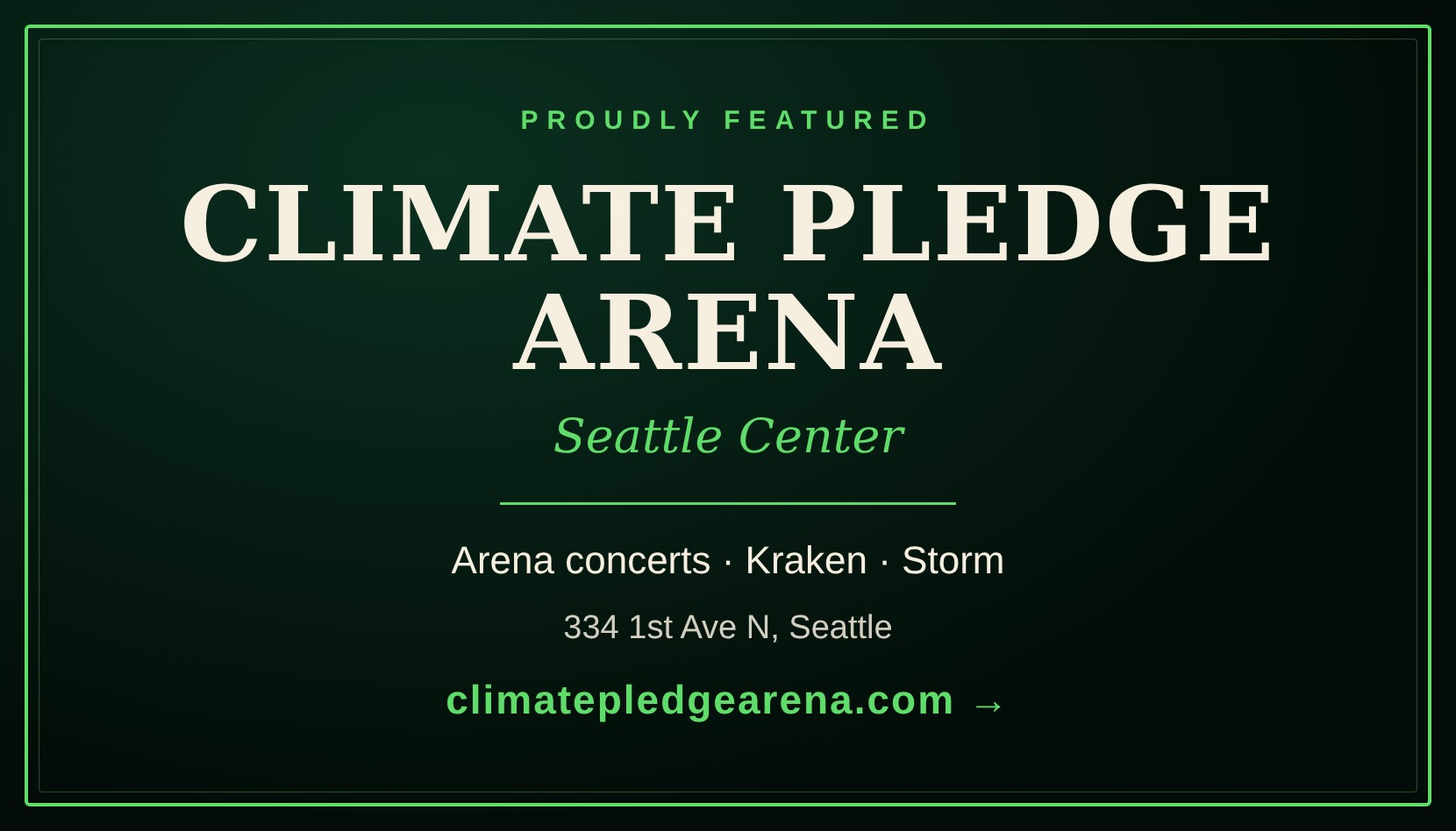
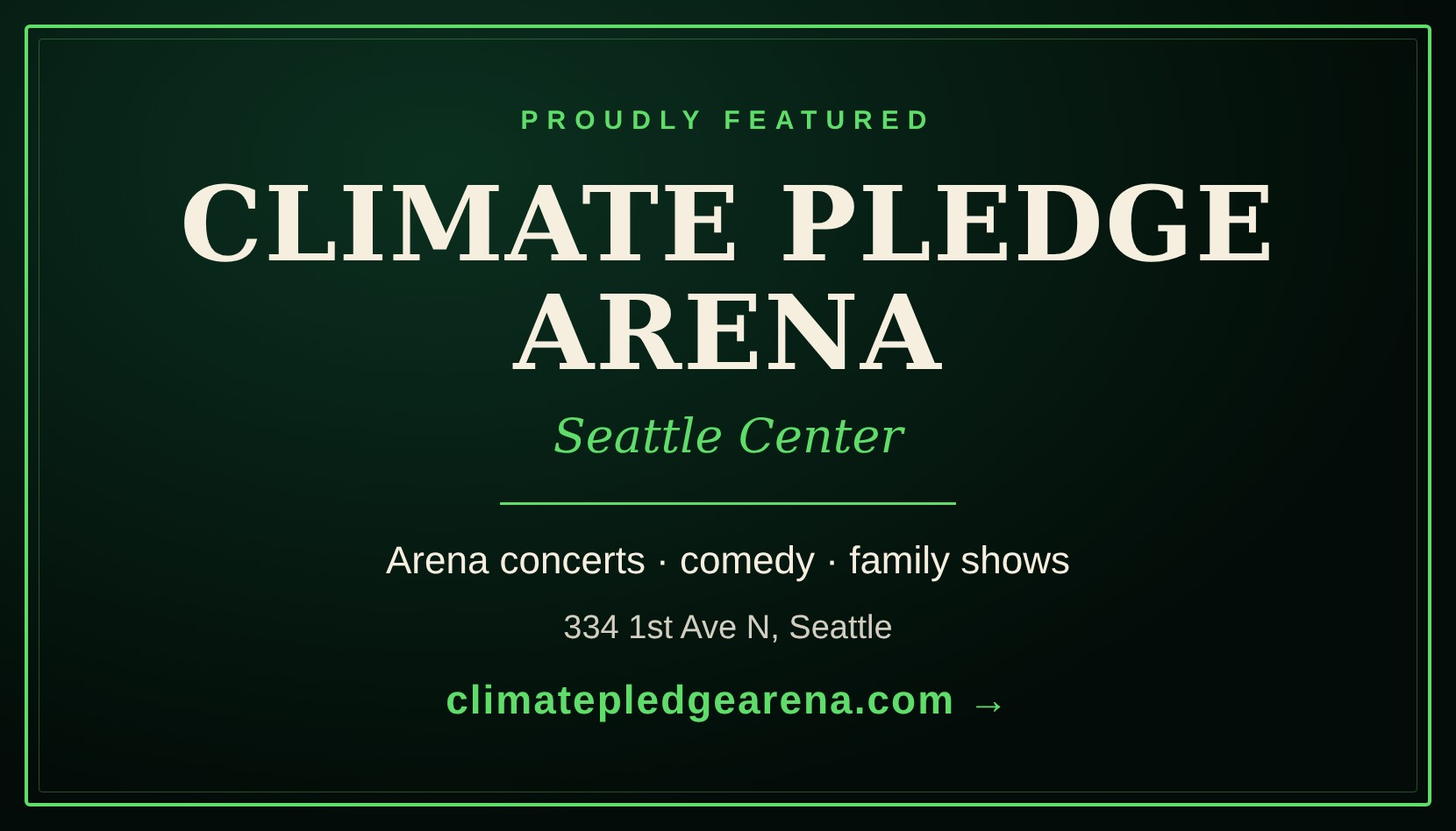
No sports: remove sports stories, headlines, calendar games and sports feed
Claude-Session: https://claude.ai/code/session_01Rvhfw57S8LJQmjjH2L4ZDg

Changed region(s): [[0.2765, 0.6424, 0.7373, 0.7036]]

diff --git a/index.html b/index.html
@@ -1384,7 +1384,7 @@ html body #jtSea .jts-m{display:flex;gap:10px;align-items:baseline;padding-top:8
 </div>
 
 <script>
-const STORIES=[{"slug": "halloween-night-in-seattle", "theme": "halloween", "until": "2026-11-01", "topic": "people", "date": "2026-10-30", "minutes": 3, "title": "Halloween Night in Seattle: What to Expect", "dek": "A Saturday Halloween with Gorillaz at Climate Pledge, the Trolloween party in Fremont, costume shows all over town, and the clocks fall back overnight.", "body": ["Halloween falls on a Saturday this year, so families get a full night out and the clubs get a full weekend. Here's what to know.", "## Trick-or-treat", "Seattle doesn't set one citywide trick-or-treat time; most neighborhoods go out from late afternoon into the evening. The sun sets before 6 p.m., so most of the night happens in the dark. Glow sticks, a flashlight or reflective tape make kids easier to see, and in Seattle, a rain shell under the costume never hurts. Check the forecast before you go.", "## Don't forget the clocks", "Daylight saving time ends at 2 a.m. Sunday, Nov. 1. Clocks fall back an hour, so the late shows get a bonus hour.", "## The big ones", "Gorillaz close out their North American tour at Climate Pledge Arena on Halloween night, and the Fremont Troll gets its own Trolloween party. Both have full stories in this issue.", "## Friday, Oct. 30", "#T {\"title\": \"The night before\", \"head\": [\"Time\", \"What\", \"Where\"], \"rows\": [[\"6 p.m.\", \"This Is Halloween\", \"The Triple Door, Downtown\"], [\"9 p.m.\", \"Halloweekend\", \"Neumos, Capitol Hill\"], [\"Night\", \"Frankie and the Witch Fingers\", \"Baba Yaga, Pioneer Square\"], [\"Night\", \"BOO! Seattle with Gramatik and KAYZO\", \"WAMU Theater, SoDo\"]]}", "## Saturday, Oct. 31", "#T {\"title\": \"Halloween night\", \"head\": [\"Time\", \"What\", \"Where\"], \"rows\": [[\"5 p.m.\", \"This Is Halloween\", \"The Triple Door, Downtown\"], [\"8 p.m.\", \"Steely Dead\", \"Nectar Lounge, Fremont\"], [\"9 p.m.\", \"GHOULFEST: A Halloween Club Night\", \"Chop Suey, Capitol Hill\"], [\"9 p.m.\", \"Halloweekend\", \"Neumos, Capitol Hill\"], [\"10 p.m.\", \"Daft Disko Halloween\", \"The Crocodile, Belltown\"]]}", "Every listing is on the Seattle Calendar, with links to tickets."], "sources": [{"outlet": "The Guitar Doug Report", "title": "Seattle Calendar", "date": "", "url": "https://seattlesinner.com/"}]}, {"slug": "gorillaz-close-mountain-tour-halloween-climate-pledge", "topic": "music", "date": "2026-10-30", "until": "2026-10-31", "minutes": 2, "title": "Gorillaz Close Out The Mountain Tour With a Halloween Night Blowout at Climate Pledge", "dek": "Damon Albarn's cartoon band ends its 22-city North American run in Seattle on Saturday, Oct. 31, with Little Simz and Deltron 3030 on the bill.", "body": ["The biggest crowd in town this Halloween weekend will be at Climate Pledge Arena, where Gorillaz finish The Mountain Tour on Saturday, Oct. 31. Showtime is 7:30 p.m.", "Seattle gets the last word: the tour opened Sept. 17 in Orlando and wraps here, the final stop of 22 arena dates across the U.S. and Canada. It is the band's first extensive North American tour since 2022, and Little Simz and Deltron 3030 are listed on the night's bill.", "## The music", "The tour supports The Mountain, released Feb. 27 on the band's own KONG label. Its singles bring in guests including Sparks, IDLES, Omar Souleyman, Yasiin Bey and Anoushka Shankar. Co-creators Damon Albarn and Jamie Hewlett built the project, and Albarn fronts the Gorillaz live band with guest performers.", "## Tickets and getting there", "The show sold through Ticketmaster, and resale seats were starting around $189.75 earlier this week. VIP packages with access to The Mountain Experience lounge were offered through VIP Nation. The arena sits at 334 1st Avenue North on the Seattle Center campus. Expect heavy Halloween traffic around Lower Queen Anne, so plan on transit or an early arrival."], "sources": [{"outlet": "Climate Pledge Arena", "title": "Gorillaz announce North American tour, fall 2026", "date": "", "url": "https://climatepledgearena.com/gorillaz-announce-north-american-tour-fall-2026/"}, {"outlet": "Seattle Refined", "title": "Seattle Halloween weekend events", "date": "", "url": "https://seattlerefined.com/lifestyle/seattle-halloween-events-weekend-music-boo-edm-gorillaz-tour-day-dead-dia-de-muertos-catrinas-festiavl-trolloween-fremont-troll-parties-ruins-2026"}, {"outlet": "Songkick", "title": "Climate Pledge Arena concerts", "date": "", "url": "https://songkick.com/venues/33714-climate-pledge-arena"}, {"outlet": "JamBase", "title": "The Smashing Pumpkins at Climate Pledge Arena (venue address)", "date": "", "url": "https://www.jambase.com/show/the-smashing-pumpkins-climate-pledge-arena-20261106"}]}, {"slug": "seahawks-host-bears-monday-night-football", "topic": "sports", "date": "2026-10-30", "until": "2026-11-02", "minutes": 1, "title": "Monday Night Lights: Seahawks Host the Bears at Lumen Field", "dek": "Seattle welcomes Chicago on ESPN's Monday Night Football Nov. 2, then turns around to face Arizona at home the following Sunday.", "body": ["The 12s get a prime-time stage Monday, Nov. 2, when the Seahawks host the Chicago Bears at Lumen Field. Kickoff is 5:15 p.m. Pacific on ESPN.", "It is the second of three straight national-TV games for Seattle, coming after a Thursday night trip to Denver and a Sunday night meeting with Kansas City.", "## A quick turnaround", "Six days later the Seahawks are home again, against the Arizona Cardinals on Sunday, Nov. 8, at 1:25 p.m. on FOX. That game closes a run of five home games in six weeks before the team heads to Las Vegas on Nov. 15 and takes its bye week.", "## Tickets", "Single-game tickets are sold through Seahawks.com/Tickets, with a limit of eight per game. A 5:15 p.m. weeknight kickoff means rush-hour traffic downtown and in SoDo, so light rail or an early start is the smart play."], "sources": [{"outlet": "Seattle Seahawks", "title": "Seahawks 2026 schedule release features six primetime games", "date": "", "url": "https://www.seahawks.com/news/seattle-seahawks-2026-schedule-release-features-six-primetime-games-including-christmas-at-lumen-field"}, {"outlet": "Seattle Seahawks", "title": "A game-by-game look at the Seahawks 2026 schedule", "date": "", "url": "https://www.seahawks.com/news/a-game-by-game-look-at-the-seahawks-2026-schedule"}]}, {"slug": "trolloween-fremont-troll-birthday-halloween", "topic": "culture", "date": "2026-10-30", "until": "2026-10-31", "minutes": 1, "title": "Fremont Throws Its Troll a Birthday Party on Halloween Night", "dek": "Trolloween brings live music, a theatrical pageant and a costumed neighborhood procession to the Fremont Troll on Saturday, Oct. 31.", "body": ["Fremont's most famous resident, the troll under the Aurora Bridge, marks his birthday on Halloween with Trolloween, starting at 7 p.m. Saturday, Oct. 31.", "The gathering takes place at the Fremont Troll at North 36th Street and Troll Avenue North. Expect live music and a theatrical pageant, followed by the Haunt of Fremont, a costumed procession that winds around the neighborhood.", "## What to know", "There is no admission fee and no ticket needed. Costumes are encouraged, so this is a fine stop for families who want one more round of Halloween fun after trick-or-treating. More details are posted by the Fremont Arts Council.", "Street parking in Fremont fills fast on Halloween night. Walking, biking or the bus will save a headache."], "sources": [{"outlet": "Seattle Refined", "title": "Seattle Halloween weekend events", "date": "", "url": "https://seattlerefined.com/lifestyle/seattle-halloween-events-weekend-music-boo-edm-gorillaz-tour-day-dead-dia-de-muertos-catrinas-festiavl-trolloween-fremont-troll-parties-ruins-2026"}]}, {"slug": "teddy-swims-ugly-tour-climate-pledge", "topic": "music", "date": "2026-10-30", "until": "2026-11-05", "minutes": 1, "title": "Teddy Swims Brings The Ugly Tour to Climate Pledge Arena", "dek": "The Grammy-nominated soul singer headlines Seattle Center on Thursday, Nov. 5, with Allen Stone and MarcLo opening.", "body": ["Big-voiced soul and pop singer Teddy Swims rolls into Climate Pledge Arena on Thursday, Nov. 5, with The Ugly Tour. The evening starts at 7 p.m.", "Swims, a Grammy nominee with a Diamond-certified record to his name, is joined by special guests Allen Stone and MarcLo, making for a full night of vocal-driven soul.", "## Tickets and getting there", "Tickets are sold through Ticketmaster; the Seattle Center listing does not post prices, so check the seat map for current figures. The arena is at 334 1st Avenue North on the Seattle Center grounds; the Monorail from Westlake Center is an easy way in."], "sources": [{"outlet": "Seattle Center", "title": "Teddy Swims: The Ugly Tour", "date": "", "url": "https://www.seattlecenter.com/events/event-calendar/teddy-swims-the-ugly-tour"}, {"outlet": "Songkick", "title": "Climate Pledge Arena concerts", "date": "", "url": "https://songkick.com/venues/33714-climate-pledge-arena"}, {"outlet": "JamBase", "title": "The Smashing Pumpkins at Climate Pledge Arena (venue address)", "date": "", "url": "https://www.jambase.com/show/the-smashing-pumpkins-climate-pledge-arena-20261106"}]}, {"slug": "smashing-pumpkins-climate-pledge-november-6", "topic": "music", "date": "2026-10-30", "until": "2026-11-06", "minutes": 1, "title": "The Smashing Pumpkins Take the Arena Stage at Climate Pledge", "dek": "Billy Corgan's alt-rock heavyweights play Seattle on Friday, Nov. 6, with face-value seats starting around $50.", "body": ["Alt-rock heavyweights hit Seattle Center on Friday, Nov. 6, when The Smashing Pumpkins play Climate Pledge Arena at 8 p.m.", "For a city that knows its loud guitars, this one should feel like home turf.", "## Tickets", "Ticketmaster's primary listing ranged from about $50.05 to $1,236.05 at last check, with resale also available. Prices move with demand, so compare before you buy.", "## Getting there", "Climate Pledge Arena is at 334 1st Avenue North. Friday night means a busy Lower Queen Anne; transit, the Monorail from Westlake or an early dinner nearby will make for an easier evening."], "sources": [{"outlet": "JamBase", "title": "The Smashing Pumpkins at Climate Pledge Arena", "date": "", "url": "https://www.jambase.com/show/the-smashing-pumpkins-climate-pledge-arena-20261106"}, {"outlet": "Songkick", "title": "Climate Pledge Arena concerts", "date": "", "url": "https://songkick.com/venues/33714-climate-pledge-arena"}]}, {"slug": "seattle-symphony-tchaikovsky-zarathustra-josefowicz", "topic": "music", "date": "2026-10-30", "until": "2026-11-15", "minutes": 2, "title": "Seattle Symphony's November: Tchaikovsky's Big Concerto, Zarathustra and Leila Josefowicz", "dek": "Benaroya Hall hosts two strong programs this month, from star violinist Leila Josefowicz to Tchaikovsky's First Piano Concerto paired with Strauss.", "body": ["The Seattle Symphony has a pair of programs at Benaroya Hall, 200 University Street, that should draw both longtime subscribers and newcomers.", "## Leila Josefowicz returns, Nov. 5 and 7", "Violinist Leila Josefowicz rejoins the orchestra with conductor Jonathan Stockhammer for music by Chin, Szymanowski and Stravinsky, including Szymanowski's Violin Concerto No. 2. The Thursday, Nov. 5 performance starts at 7:30 p.m., with a second performance Saturday, Nov. 7.", "## Tchaikovsky and Zarathustra, Nov. 12, 14 and 15", "Conductor Xian Zhang leads Tchaikovsky's Piano Concerto No. 1 with pianist Tony Siqi Yun, alongside Richard Strauss's Zarathustra. Performances are Thursday, Nov. 12, Saturday, Nov. 14, and a Sunday matinee Nov. 15.", "## Tickets", "Both programs play the S. Mark Taper Foundation Auditorium. Tickets are sold through the Seattle Symphony box office; check current prices and exact curtain times there before you go. Benaroya Hall sits in the heart of downtown, close to plenty of bus routes."], "sources": [{"outlet": "Bachtrack", "title": "Seattle Symphony: Tchaikovsky's First Piano Concerto and Zarathustra", "date": "", "url": "https://bachtrack.com/22/291/view/436348"}, {"outlet": "Bachtrack", "title": "Seattle Symphony: Leila Josefowicz Returns", "date": "", "url": "https://bachtrack.com/22/291/view/436347"}, {"outlet": "Concerts50", "title": "Seattle Symphony, Nov. 5, 2026", "date": "", "url": "https://concerts50.com/show/seattle-symphony-in-seattle-tickets-nov-05-2026"}]}, {"slug": "postmodern-jukebox-paramount-november-24", "topic": "music", "date": "2026-10-30", "until": "2026-11-24", "minutes": 1, "title": "Postmodern Jukebox Swings Into the Paramount Thanksgiving Week", "dek": "Scott Bradlee's vintage-style cover band plays the Paramount Theatre on Tuesday, Nov. 24, with face-value tickets from about $49.", "body": ["Scott Bradlee's Postmodern Jukebox, the troupe that dresses up modern pop hits in vintage jazz and swing clothes, plays the Paramount Theatre on Tuesday, Nov. 24, at 8 p.m.", "It is a good pick for a night out with visiting family in town for the Thanksgiving holiday, and the Paramount's ornate room suits the old-time style.", "## Tickets and getting there", "Ticketmaster lists face-value seats from about $49.10 to $223.90, with resale options also available. The Paramount is at 911 Pine Street, downtown at the edge of Capitol Hill."], "sources": [{"outlet": "JamBase", "title": "Scott Bradlee's Postmodern Jukebox at Paramount Theatre", "date": "", "url": "https://www.jambase.com/show/scott-bradlees-postmodern-jukebox-paramount-theatre-20261124"}]}, {"slug": "the-outsiders-musical-paramount-seattle", "topic": "stage", "date": "2026-10-30", "until": "2026-12-06", "minutes": 1, "title": "Tony-Winning 'The Outsiders' Rumbles Into the Paramount", "dek": "The Broadway musical based on S.E. Hinton's novel plays Seattle Nov. 27 through Dec. 6 as part of the Broadway at The Paramount season.", "body": ["Stay gold, Seattle. The Outsiders, the Tony Award-winning Best Musical adapted from S.E. Hinton's novel and Francis Ford Coppola's film, opens at the Paramount Theatre on Friday, Nov. 27, the day after Thanksgiving, and runs through Sunday, Dec. 6.", "Set in Tulsa, Oklahoma, in 1967, the show follows Ponyboy Curtis, Johnny Cade and their Greaser friends as they square off with the wealthier Socs. It is a story about friendship, family and belonging that lands on a hopeful note.", "## Tickets", "The engagement is part of the main Broadway at The Paramount subscription season. Single tickets and showtimes are listed through STG Presents at STGPresents.org/Broadway.", "## Getting there", "The Paramount Theatre is at 911 Pine Street downtown. Holiday-weekend shopping crowds will be out in force, so give yourself extra time to park or come by bus."], "sources": [{"outlet": "BroadwayWorld", "title": "The Outsiders, Seattle", "date": "", "url": "https://www.broadwayworld.com/seattle/regional/the-outsiders-seattle-61393"}, {"outlet": "Seattle's Child", "title": "Broadway at the Paramount 2026-2027", "date": "", "url": "https://www.seattleschild.com/broadway-at-the-paramount-2026-2027/"}, {"outlet": "Broadway.com", "title": "The Outsiders", "date": "", "url": "https://www.broadway.com/shows/the-outsiders/event/21758631/11-27-2026/1930/"}]}, {"slug": "josh-johnson-comedy-paramount-november-21", "topic": "stage", "date": "2026-10-30", "until": "2026-11-21", "minutes": 1, "title": "Comedian Josh Johnson Headlines the Paramount", "dek": "The stand-up brings his act to the Paramount Theatre on Saturday, Nov. 21, with doors at 8:30 p.m.", "body": ["Stand-up comedian Josh Johnson takes the Paramount Theatre stage on Saturday, Nov. 21. Doors open at 8:30 p.m.", "Playing the 911 Pine Street landmark is a big-room booking, and the show has been on sale for months, so remaining seats may be limited.", "## Tickets", "Tickets are sold through Ticketmaster. Check there for current prices and seat availability, and buy from the official seller to avoid inflated resale markups.", "## Make a night of it", "The Paramount sits at the edge of downtown and Capitol Hill, with plenty of restaurants within a few blocks for dinner before the show."], "sources": [{"outlet": "Songkick", "title": "Josh Johnson (Comedian) at Paramount Theatre", "date": "", "url": "https://www.songkick.com/concerts/43082047-josh-johnson-comedian-at-paramount-theatre"}]}, {"slug": "huskies-host-penn-state-indiana-husky-stadium", "topic": "sports", "date": "2026-10-30", "until": "2026-11-21", "minutes": 1, "title": "Huskies Close Home Slate With Penn State and Indiana at Husky Stadium", "dek": "After a Halloween trip to Nebraska, Washington plays its last two home games of the season on Nov. 7 and Nov. 21.", "body": ["Washington football has two big Big Ten dates left on Montlake. The Huskies host Penn State on Saturday, Nov. 7, and close the home schedule against Indiana on Saturday, Nov. 21.", "First the Dawgs head to Lincoln to face Nebraska on Halloween. After the Penn State game they travel to Michigan State on Nov. 14, and the regular season ends at Oregon on Nov. 28.", "## Kickoff times and tickets", "Kickoff times are set by the conference and TV partners, often only a week or two ahead, so check GoHuskies.com before making plans. Tickets are sold through the Huskies' official ticket office.", "## Getting there", "Husky Stadium is on the University of Washington campus. Game-day traffic around Montlake backs up early, so transit or an early start is the way to go."], "sources": [{"outlet": "Washington Huskies", "title": "Huskies unveil full 2026 football schedule", "date": "", "url": "https://gohuskies.com/news/2026/1/27/huskies-unveil-full-2026-football-schedule"}]}, {"slug": "wildlanterns-woodland-park-zoo-opens-november-13", "topic": "culture", "date": "2026-10-30", "until": "2026-11-13", "minutes": 1, "title": "WildLanterns Lights Up Woodland Park Zoo Starting Nov. 13", "dek": "The zoo's evening lantern festival returns for the holiday season, open 4 to 9 p.m. on most nights through mid-January.", "body": ["One of the region's most popular family holiday outings is nearly here. WildLanterns, the evening lantern festival at Woodland Park Zoo, is set to open Friday, Nov. 13, and run through Jan. 17, 2027.", "Glowing lantern sculptures of animals line the zoo's paths after dark, making it a good pick for families, date nights and out-of-town guests.", "## Hours and dates", "Hours are 4 to 9 p.m., with last entry at 8:30 p.m. The festival is dark on some nights, including Nov. 16 through 18, Nov. 23, Thanksgiving (Nov. 26) and Nov. 30, plus several dates in December and January, so check the calendar before you go.", "## Tickets", "Entry is by timed ticket, with prices that vary by date; zoo members get 20% off general admission. Buy ahead online at zoo.org/wildlanterns, since popular nights can sell out. Dates and hours can change, so confirm on the zoo's site before heading out."], "sources": [{"outlet": "Thrillzing", "title": "WildLanterns 2026 at Woodland Park Zoo: Dates, Tickets and Tips", "date": "", "url": "https://thrillzing.com/seasonal-events/wildlanterns-2026-woodland-park-zoo/"}, {"outlet": "Visit Seattle", "title": "The Festive Season", "date": "", "url": "https://visitseattle.org/things-to-do/events/holiday-happenings/"}]}, {"slug": "seattle-catrinas-festival-dia-de-muertos-town-hall", "topic": "culture", "date": "2026-10-30", "until": "2026-11-01", "minutes": 1, "title": "Seattle Catrinas Festival Celebrates Día de Muertos at Town Hall", "dek": "The fifth-anniversary festival fills Town Hall Seattle's Great Hall with altars, folk dance, music and a candlelight procession Oct. 31 and Nov. 1.", "body": ["Seattle's Day of the Dead tradition marks five years this weekend. The Seattle Catrinas Festival runs Saturday, Oct. 31, and Sunday, Nov. 1, from 1 to 9 p.m. each day in the Great Hall at Town Hall Seattle.", "The program is a celebration of Mexican culture and family memory: community altars, towering Catrina figures, artisan vendors, folkloric dance, live music and a candlelight procession. The all-ages stage presentation The Unforgettable is also on the bill.", "## Tickets", "Admission is $55, sold at seattlecatrinasfestival.com. Visitors are encouraged to come dressed as Catrinas or Catrines.", "## Plan ahead", "Halloween Saturday will be busy citywide, so Sunday may be the calmer day for families."], "sources": [{"outlet": "Seattle Refined", "title": "Seattle Halloween weekend events", "date": "", "url": "https://seattlerefined.com/lifestyle/seattle-halloween-events-weekend-music-boo-edm-gorillaz-tour-day-dead-dia-de-muertos-catrinas-festiavl-trolloween-fremont-troll-parties-ruins-2026"}]}];(()=>{const d=new Date(),k=d.getFullYear()+"-"+String(d.getMonth()+1).padStart(2,"0")+"-"+String(d.getDate()).padStart(2,"0");window.EXPIRED=new Set(STORIES.filter(s=>s.until&&s.until<k).map(s=>s.slug));const L=STORIES.filter(s=>!s.until||s.until>=k);STORIES.length=0;STORIES.push(...L)})();
+const STORIES=[{"slug": "halloween-night-in-seattle", "theme": "halloween", "until": "2026-11-01", "topic": "people", "date": "2026-10-30", "minutes": 3, "title": "Halloween Night in Seattle: What to Expect", "dek": "A Saturday Halloween with Gorillaz at Climate Pledge, the Trolloween party in Fremont, costume shows all over town, and the clocks fall back overnight.", "body": ["Halloween falls on a Saturday this year, so families get a full night out and the clubs get a full weekend. Here's what to know.", "## Trick-or-treat", "Seattle doesn't set one citywide trick-or-treat time; most neighborhoods go out from late afternoon into the evening. The sun sets before 6 p.m., so most of the night happens in the dark. Glow sticks, a flashlight or reflective tape make kids easier to see, and in Seattle, a rain shell under the costume never hurts. Check the forecast before you go.", "## Don't forget the clocks", "Daylight saving time ends at 2 a.m. Sunday, Nov. 1. Clocks fall back an hour, so the late shows get a bonus hour.", "## The big ones", "Gorillaz close out their North American tour at Climate Pledge Arena on Halloween night, and the Fremont Troll gets its own Trolloween party. Both have full stories in this issue.", "## Friday, Oct. 30", "#T {\"title\": \"The night before\", \"head\": [\"Time\", \"What\", \"Where\"], \"rows\": [[\"6 p.m.\", \"This Is Halloween\", \"The Triple Door, Downtown\"], [\"9 p.m.\", \"Halloweekend\", \"Neumos, Capitol Hill\"], [\"Night\", \"Frankie and the Witch Fingers\", \"Baba Yaga, Pioneer Square\"], [\"Night\", \"BOO! Seattle with Gramatik and KAYZO\", \"WAMU Theater, SoDo\"]]}", "## Saturday, Oct. 31", "#T {\"title\": \"Halloween night\", \"head\": [\"Time\", \"What\", \"Where\"], \"rows\": [[\"5 p.m.\", \"This Is Halloween\", \"The Triple Door, Downtown\"], [\"8 p.m.\", \"Steely Dead\", \"Nectar Lounge, Fremont\"], [\"9 p.m.\", \"GHOULFEST: A Halloween Club Night\", \"Chop Suey, Capitol Hill\"], [\"9 p.m.\", \"Halloweekend\", \"Neumos, Capitol Hill\"], [\"10 p.m.\", \"Daft Disko Halloween\", \"The Crocodile, Belltown\"]]}", "Every listing is on the Seattle Calendar, with links to tickets."], "sources": [{"outlet": "The Guitar Doug Report", "title": "Seattle Calendar", "date": "", "url": "https://seattlesinner.com/"}]}, {"slug": "gorillaz-close-mountain-tour-halloween-climate-pledge", "topic": "music", "date": "2026-10-30", "until": "2026-10-31", "minutes": 2, "title": "Gorillaz Close Out The Mountain Tour With a Halloween Night Blowout at Climate Pledge", "dek": "Damon Albarn's cartoon band ends its 22-city North American run in Seattle on Saturday, Oct. 31, with Little Simz and Deltron 3030 on the bill.", "body": ["The biggest crowd in town this Halloween weekend will be at Climate Pledge Arena, where Gorillaz finish The Mountain Tour on Saturday, Oct. 31. Showtime is 7:30 p.m.", "Seattle gets the last word: the tour opened Sept. 17 in Orlando and wraps here, the final stop of 22 arena dates across the U.S. and Canada. It is the band's first extensive North American tour since 2022, and Little Simz and Deltron 3030 are listed on the night's bill.", "## The music", "The tour supports The Mountain, released Feb. 27 on the band's own KONG label. Its singles bring in guests including Sparks, IDLES, Omar Souleyman, Yasiin Bey and Anoushka Shankar. Co-creators Damon Albarn and Jamie Hewlett built the project, and Albarn fronts the Gorillaz live band with guest performers.", "## Tickets and getting there", "The show sold through Ticketmaster, and resale seats were starting around $189.75 earlier this week. VIP packages with access to The Mountain Experience lounge were offered through VIP Nation. The arena sits at 334 1st Avenue North on the Seattle Center campus. Expect heavy Halloween traffic around Lower Queen Anne, so plan on transit or an early arrival."], "sources": [{"outlet": "Climate Pledge Arena", "title": "Gorillaz announce North American tour, fall 2026", "date": "", "url": "https://climatepledgearena.com/gorillaz-announce-north-american-tour-fall-2026/"}, {"outlet": "Seattle Refined", "title": "Seattle Halloween weekend events", "date": "", "url": "https://seattlerefined.com/lifestyle/seattle-halloween-events-weekend-music-boo-edm-gorillaz-tour-day-dead-dia-de-muertos-catrinas-festiavl-trolloween-fremont-troll-parties-ruins-2026"}, {"outlet": "Songkick", "title": "Climate Pledge Arena concerts", "date": "", "url": "https://songkick.com/venues/33714-climate-pledge-arena"}, {"outlet": "JamBase", "title": "The Smashing Pumpkins at Climate Pledge Arena (venue address)", "date": "", "url": "https://www.jambase.com/show/the-smashing-pumpkins-climate-pledge-arena-20261106"}]}, {"slug": "trolloween-fremont-troll-birthday-halloween", "topic": "culture", "date": "2026-10-30", "until": "2026-10-31", "minutes": 1, "title": "Fremont Throws Its Troll a Birthday Party on Halloween Night", "dek": "Trolloween brings live music, a theatrical pageant and a costumed neighborhood procession to the Fremont Troll on Saturday, Oct. 31.", "body": ["Fremont's most famous resident, the troll under the Aurora Bridge, marks his birthday on Halloween with Trolloween, starting at 7 p.m. Saturday, Oct. 31.", "The gathering takes place at the Fremont Troll at North 36th Street and Troll Avenue North. Expect live music and a theatrical pageant, followed by the Haunt of Fremont, a costumed procession that winds around the neighborhood.", "## What to know", "There is no admission fee and no ticket needed. Costumes are encouraged, so this is a fine stop for families who want one more round of Halloween fun after trick-or-treating. More details are posted by the Fremont Arts Council.", "Street parking in Fremont fills fast on Halloween night. Walking, biking or the bus will save a headache."], "sources": [{"outlet": "Seattle Refined", "title": "Seattle Halloween weekend events", "date": "", "url": "https://seattlerefined.com/lifestyle/seattle-halloween-events-weekend-music-boo-edm-gorillaz-tour-day-dead-dia-de-muertos-catrinas-festiavl-trolloween-fremont-troll-parties-ruins-2026"}]}, {"slug": "teddy-swims-ugly-tour-climate-pledge", "topic": "music", "date": "2026-10-30", "until": "2026-11-05", "minutes": 1, "title": "Teddy Swims Brings The Ugly Tour to Climate Pledge Arena", "dek": "The Grammy-nominated soul singer headlines Seattle Center on Thursday, Nov. 5, with Allen Stone and MarcLo opening.", "body": ["Big-voiced soul and pop singer Teddy Swims rolls into Climate Pledge Arena on Thursday, Nov. 5, with The Ugly Tour. The evening starts at 7 p.m.", "Swims, a Grammy nominee with a Diamond-certified record to his name, is joined by special guests Allen Stone and MarcLo, making for a full night of vocal-driven soul.", "## Tickets and getting there", "Tickets are sold through Ticketmaster; the Seattle Center listing does not post prices, so check the seat map for current figures. The arena is at 334 1st Avenue North on the Seattle Center grounds; the Monorail from Westlake Center is an easy way in."], "sources": [{"outlet": "Seattle Center", "title": "Teddy Swims: The Ugly Tour", "date": "", "url": "https://www.seattlecenter.com/events/event-calendar/teddy-swims-the-ugly-tour"}, {"outlet": "Songkick", "title": "Climate Pledge Arena concerts", "date": "", "url": "https://songkick.com/venues/33714-climate-pledge-arena"}, {"outlet": "JamBase", "title": "The Smashing Pumpkins at Climate Pledge Arena (venue address)", "date": "", "url": "https://www.jambase.com/show/the-smashing-pumpkins-climate-pledge-arena-20261106"}]}, {"slug": "smashing-pumpkins-climate-pledge-november-6", "topic": "music", "date": "2026-10-30", "until": "2026-11-06", "minutes": 1, "title": "The Smashing Pumpkins Take the Arena Stage at Climate Pledge", "dek": "Billy Corgan's alt-rock heavyweights play Seattle on Friday, Nov. 6, with face-value seats starting around $50.", "body": ["Alt-rock heavyweights hit Seattle Center on Friday, Nov. 6, when The Smashing Pumpkins play Climate Pledge Arena at 8 p.m.", "For a city that knows its loud guitars, this one should feel like home turf.", "## Tickets", "Ticketmaster's primary listing ranged from about $50.05 to $1,236.05 at last check, with resale also available. Prices move with demand, so compare before you buy.", "## Getting there", "Climate Pledge Arena is at 334 1st Avenue North. Friday night means a busy Lower Queen Anne; transit, the Monorail from Westlake or an early dinner nearby will make for an easier evening."], "sources": [{"outlet": "JamBase", "title": "The Smashing Pumpkins at Climate Pledge Arena", "date": "", "url": "https://www.jambase.com/show/the-smashing-pumpkins-climate-pledge-arena-20261106"}, {"outlet": "Songkick", "title": "Climate Pledge Arena concerts", "date": "", "url": "https://songkick.com/venues/33714-climate-pledge-arena"}]}, {"slug": "seattle-symphony-tchaikovsky-zarathustra-josefowicz", "topic": "music", "date": "2026-10-30", "until": "2026-11-15", "minutes": 2, "title": "Seattle Symphony's November: Tchaikovsky's Big Concerto, Zarathustra and Leila Josefowicz", "dek": "Benaroya Hall hosts two strong programs this month, from star violinist Leila Josefowicz to Tchaikovsky's First Piano Concerto paired with Strauss.", "body": ["The Seattle Symphony has a pair of programs at Benaroya Hall, 200 University Street, that should draw both longtime subscribers and newcomers.", "## Leila Josefowicz returns, Nov. 5 and 7", "Violinist Leila Josefowicz rejoins the orchestra with conductor Jonathan Stockhammer for music by Chin, Szymanowski and Stravinsky, including Szymanowski's Violin Concerto No. 2. The Thursday, Nov. 5 performance starts at 7:30 p.m., with a second performance Saturday, Nov. 7.", "## Tchaikovsky and Zarathustra, Nov. 12, 14 and 15", "Conductor Xian Zhang leads Tchaikovsky's Piano Concerto No. 1 with pianist Tony Siqi Yun, alongside Richard Strauss's Zarathustra. Performances are Thursday, Nov. 12, Saturday, Nov. 14, and a Sunday matinee Nov. 15.", "## Tickets", "Both programs play the S. Mark Taper Foundation Auditorium. Tickets are sold through the Seattle Symphony box office; check current prices and exact curtain times there before you go. Benaroya Hall sits in the heart of downtown, close to plenty of bus routes."], "sources": [{"outlet": "Bachtrack", "title": "Seattle Symphony: Tchaikovsky's First Piano Concerto and Zarathustra", "date": "", "url": "https://bachtrack.com/22/291/view/436348"}, {"outlet": "Bachtrack", "title": "Seattle Symphony: Leila Josefowicz Returns", "date": "", "url": "https://bachtrack.com/22/291/view/436347"}, {"outlet": "Concerts50", "title": "Seattle Symphony, Nov. 5, 2026", "date": "", "url": "https://concerts50.com/show/seattle-symphony-in-seattle-tickets-nov-05-2026"}]}, {"slug": "postmodern-jukebox-paramount-november-24", "topic": "music", "date": "2026-10-30", "until": "2026-11-24", "minutes": 1, "title": "Postmodern Jukebox Swings Into the Paramount Thanksgiving Week", "dek": "Scott Bradlee's vintage-style cover band plays the Paramount Theatre on Tuesday, Nov. 24, with face-value tickets from about $49.", "body": ["Scott Bradlee's Postmodern Jukebox, the troupe that dresses up modern pop hits in vintage jazz and swing clothes, plays the Paramount Theatre on Tuesday, Nov. 24, at 8 p.m.", "It is a good pick for a night out with visiting family in town for the Thanksgiving holiday, and the Paramount's ornate room suits the old-time style.", "## Tickets and getting there", "Ticketmaster lists face-value seats from about $49.10 to $223.90, with resale options also available. The Paramount is at 911 Pine Street, downtown at the edge of Capitol Hill."], "sources": [{"outlet": "JamBase", "title": "Scott Bradlee's Postmodern Jukebox at Paramount Theatre", "date": "", "url": "https://www.jambase.com/show/scott-bradlees-postmodern-jukebox-paramount-theatre-20261124"}]}, {"slug": "the-outsiders-musical-paramount-seattle", "topic": "stage", "date": "2026-10-30", "until": "2026-12-06", "minutes": 1, "title": "Tony-Winning 'The Outsiders' Rumbles Into the Paramount", "dek": "The Broadway musical based on S.E. Hinton's novel plays Seattle Nov. 27 through Dec. 6 as part of the Broadway at The Paramount season.", "body": ["Stay gold, Seattle. The Outsiders, the Tony Award-winning Best Musical adapted from S.E. Hinton's novel and Francis Ford Coppola's film, opens at the Paramount Theatre on Friday, Nov. 27, the day after Thanksgiving, and runs through Sunday, Dec. 6.", "Set in Tulsa, Oklahoma, in 1967, the show follows Ponyboy Curtis, Johnny Cade and their Greaser friends as they square off with the wealthier Socs. It is a story about friendship, family and belonging that lands on a hopeful note.", "## Tickets", "The engagement is part of the main Broadway at The Paramount subscription season. Single tickets and showtimes are listed through STG Presents at STGPresents.org/Broadway.", "## Getting there", "The Paramount Theatre is at 911 Pine Street downtown. Holiday-weekend shopping crowds will be out in force, so give yourself extra time to park or come by bus."], "sources": [{"outlet": "BroadwayWorld", "title": "The Outsiders, Seattle", "date": "", "url": "https://www.broadwayworld.com/seattle/regional/the-outsiders-seattle-61393"}, {"outlet": "Seattle's Child", "title": "Broadway at the Paramount 2026-2027", "date": "", "url": "https://www.seattleschild.com/broadway-at-the-paramount-2026-2027/"}, {"outlet": "Broadway.com", "title": "The Outsiders", "date": "", "url": "https://www.broadway.com/shows/the-outsiders/event/21758631/11-27-2026/1930/"}]}, {"slug": "josh-johnson-comedy-paramount-november-21", "topic": "stage", "date": "2026-10-30", "until": "2026-11-21", "minutes": 1, "title": "Comedian Josh Johnson Headlines the Paramount", "dek": "The stand-up brings his act to the Paramount Theatre on Saturday, Nov. 21, with doors at 8:30 p.m.", "body": ["Stand-up comedian Josh Johnson takes the Paramount Theatre stage on Saturday, Nov. 21. Doors open at 8:30 p.m.", "Playing the 911 Pine Street landmark is a big-room booking, and the show has been on sale for months, so remaining seats may be limited.", "## Tickets", "Tickets are sold through Ticketmaster. Check there for current prices and seat availability, and buy from the official seller to avoid inflated resale markups.", "## Make a night of it", "The Paramount sits at the edge of downtown and Capitol Hill, with plenty of restaurants within a few blocks for dinner before the show."], "sources": [{"outlet": "Songkick", "title": "Josh Johnson (Comedian) at Paramount Theatre", "date": "", "url": "https://www.songkick.com/concerts/43082047-josh-johnson-comedian-at-paramount-theatre"}]}, {"slug": "wildlanterns-woodland-park-zoo-opens-november-13", "topic": "culture", "date": "2026-10-30", "until": "2026-11-13", "minutes": 1, "title": "WildLanterns Lights Up Woodland Park Zoo Starting Nov. 13", "dek": "The zoo's evening lantern festival returns for the holiday season, open 4 to 9 p.m. on most nights through mid-January.", "body": ["One of the region's most popular family holiday outings is nearly here. WildLanterns, the evening lantern festival at Woodland Park Zoo, is set to open Friday, Nov. 13, and run through Jan. 17, 2027.", "Glowing lantern sculptures of animals line the zoo's paths after dark, making it a good pick for families, date nights and out-of-town guests.", "## Hours and dates", "Hours are 4 to 9 p.m., with last entry at 8:30 p.m. The festival is dark on some nights, including Nov. 16 through 18, Nov. 23, Thanksgiving (Nov. 26) and Nov. 30, plus several dates in December and January, so check the calendar before you go.", "## Tickets", "Entry is by timed ticket, with prices that vary by date; zoo members get 20% off general admission. Buy ahead online at zoo.org/wildlanterns, since popular nights can sell out. Dates and hours can change, so confirm on the zoo's site before heading out."], "sources": [{"outlet": "Thrillzing", "title": "WildLanterns 2026 at Woodland Park Zoo: Dates, Tickets and Tips", "date": "", "url": "https://thrillzing.com/seasonal-events/wildlanterns-2026-woodland-park-zoo/"}, {"outlet": "Visit Seattle", "title": "The Festive Season", "date": "", "url": "https://visitseattle.org/things-to-do/events/holiday-happenings/"}]}, {"slug": "seattle-catrinas-festival-dia-de-muertos-town-hall", "topic": "culture", "date": "2026-10-30", "until": "2026-11-01", "minutes": 1, "title": "Seattle Catrinas Festival Celebrates Día de Muertos at Town Hall", "dek": "The fifth-anniversary festival fills Town Hall Seattle's Great Hall with altars, folk dance, music and a candlelight procession Oct. 31 and Nov. 1.", "body": ["Seattle's Day of the Dead tradition marks five years this weekend. The Seattle Catrinas Festival runs Saturday, Oct. 31, and Sunday, Nov. 1, from 1 to 9 p.m. each day in the Great Hall at Town Hall Seattle.", "The program is a celebration of Mexican culture and family memory: community altars, towering Catrina figures, artisan vendors, folkloric dance, live music and a candlelight procession. The all-ages stage presentation The Unforgettable is also on the bill.", "## Tickets", "Admission is $55, sold at seattlecatrinasfestival.com. Visitors are encouraged to come dressed as Catrinas or Catrines.", "## Plan ahead", "Halloween Saturday will be busy citywide, so Sunday may be the calmer day for families."], "sources": [{"outlet": "Seattle Refined", "title": "Seattle Halloween weekend events", "date": "", "url": "https://seattlerefined.com/lifestyle/seattle-halloween-events-weekend-music-boo-edm-gorillaz-tour-day-dead-dia-de-muertos-catrinas-festiavl-trolloween-fremont-troll-parties-ruins-2026"}]}];(()=>{const d=new Date(),k=d.getFullYear()+"-"+String(d.getMonth()+1).padStart(2,"0")+"-"+String(d.getDate()).padStart(2,"0");window.EXPIRED=new Set(STORIES.filter(s=>s.until&&s.until<k).map(s=>s.slug));const L=STORIES.filter(s=>!s.until||s.until>=k);STORIES.length=0;STORIES.push(...L)})();
 __mfirst(STORIES);
 const CAL=[];
 const SCENE=[];
@@ -1450,7 +1450,7 @@ function applyCalendarFeed(j,isCalendar){
   const stat=document.querySelector('#mstat .ms:nth-child(2) b');if(stat)stat.textContent=up.length;
   if(['cal','front'].includes(STATE.view)&&!document.activeElement.matches('input,select,textarea'))render();
 }
-['data/cal.json','data/sports.json'].forEach(u=>fetch(u+'?'+Math.floor(Date.now()/6e5),{cache:'no-store'}).then(r=>r.ok?r.json():null).then(j=>applyCalendarFeed(j,u==='data/cal.json')).catch(()=>{}));
+['data/cal.json'].forEach(u=>fetch(u+'?'+Math.floor(Date.now()/6e5),{cache:'no-store'}).then(r=>r.ok?r.json():null).then(j=>applyCalendarFeed(j,u==='data/cal.json')).catch(()=>{}));
 const upScene=SCENE.filter(e=>(e.end||e.date)>=todayKey);
 const tc=t=>(TOPIC[t]||['#8fb3d9',t])[0], tl=t=>(TOPIC[t]||['',t])[1];
 
